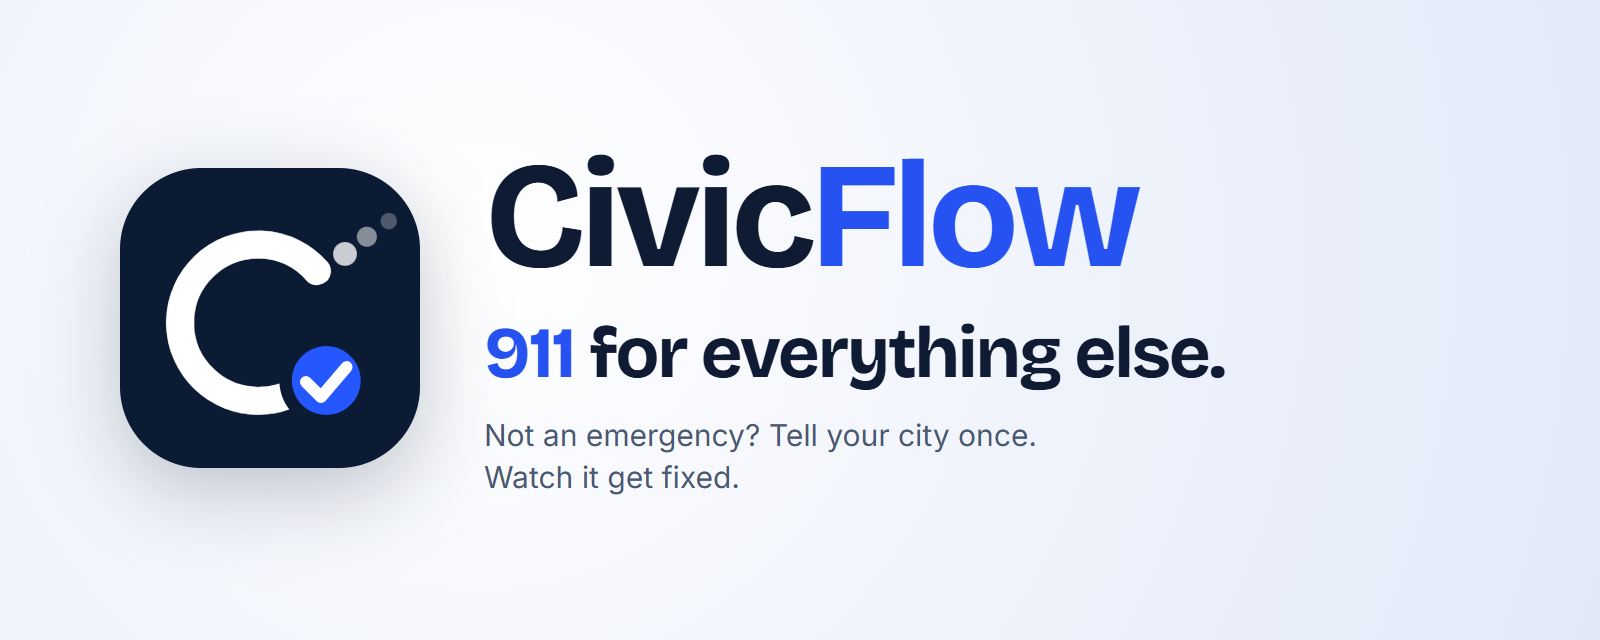
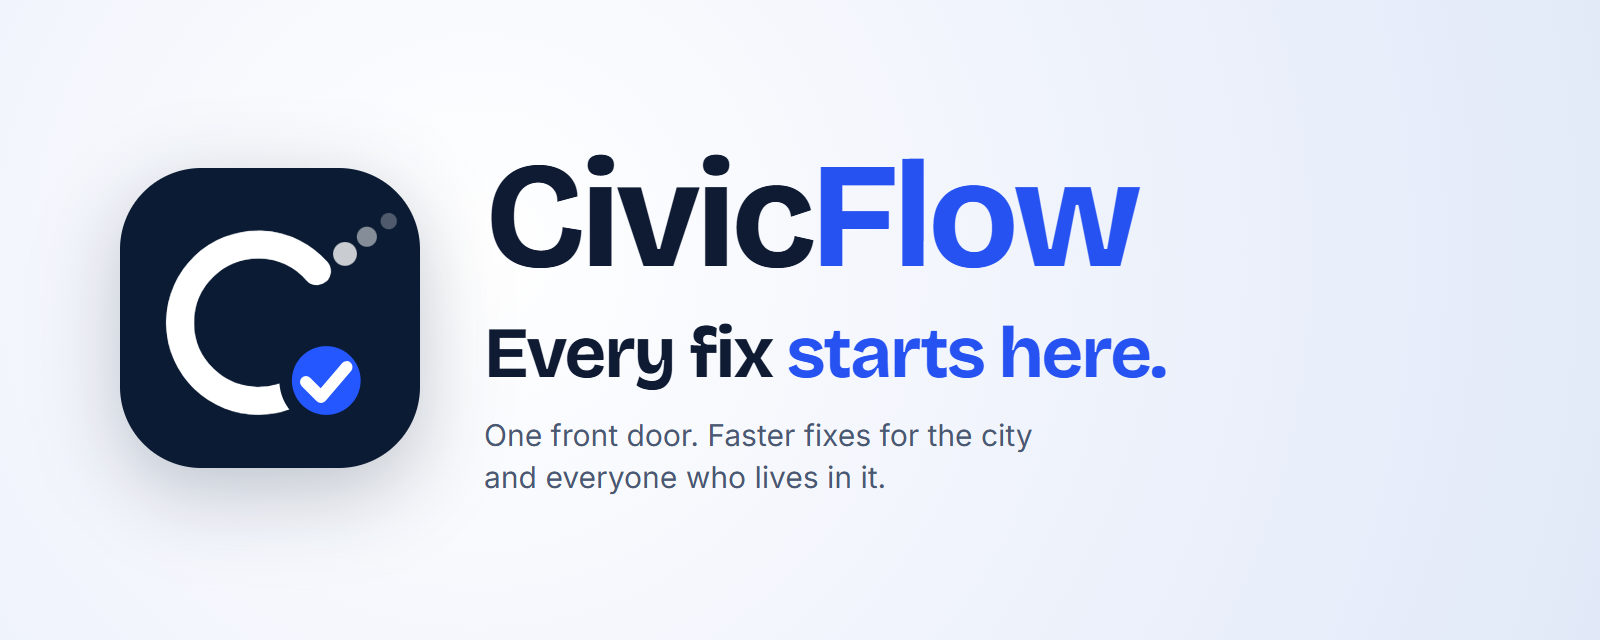
Opener and tagline: Every fix starts here; remove 911 and police from the visuals and script

Changed region(s): [[0.2812, 0.5, 0.7812, 0.625], [0.2812, 0.6562, 0.6562, 0.7812]]

diff --git a/frontend/src/intro/Intro.tsx b/frontend/src/intro/Intro.tsx
@@ -1,15 +1,15 @@
 import { useEffect } from "react";
 import { motion, useReducedMotion } from "framer-motion";
-import { Mail, Phone, Share2, Shield, Siren } from "lucide-react";
+import { Building2, Mail, Phone, Share2, Users } from "lucide-react";
 import "./intro.css";
 
 const CHANNELS = [
-  { label: "911", icon: Siren }, { label: "Police", icon: Shield }, { label: "Phone", icon: Phone },
-  { label: "Email", icon: Mail }, { label: "Social media", icon: Share2 },
+  { label: "Phone call", icon: Phone }, { label: "Email", icon: Mail }, { label: "Front desk", icon: Building2 },
+  { label: "Council member", icon: Users }, { label: "Social media", icon: Share2 },
 ];
 const STEP = 118; // px between chip centers: the chips slide this far (times their distance from the middle) into the logo
 
-/** The demo opener: a short overlay on the live app. Five ways in converge into the mark, then "911 for everything else."
+/** The demo opener: a short overlay on the live app. Five ways a problem reaches a city converge into the mark, then "Every fix starts here."
  *  Space, Enter, Escape or a click dismisses it. Under prefers-reduced-motion the finished frame is shown at once. */
 export default function Intro({ onDone }: { onDone: () => void }) {
   const reduced = !!useReducedMotion();
@@ -27,7 +27,7 @@ export default function Intro({ onDone }: { onDone: () => void }) {
   const rise = (delay: number) => ({ initial: reduced ? false : ({ opacity: 0, y: 12 } as const), animate: { opacity: 1, y: 0 }, transition: t(delay) });
 
   return (
-    <div className="intro-scrim" role="dialog" aria-modal="true" aria-label="Civic Flow: 911 for everything else" onClick={onDone}>
+    <div className="intro-scrim" role="dialog" aria-modal="true" aria-label="Civic Flow: every fix starts here" onClick={onDone}>
       <div className="intro-card" onClick={(e) => e.stopPropagation()}>
         <div className="intro-stage" aria-hidden="true">
           <div className="intro-chips">
@@ -53,10 +53,10 @@ export default function Intro({ onDone }: { onDone: () => void }) {
 
         <motion.div className="intro-word" {...rise(1.45)}>Civic<span>Flow</span></motion.div>
         <h2 className="intro-tag">
-          <motion.span className="is-911" {...rise(1.7)}>911</motion.span>
-          <motion.span {...rise(2.0)}>for everything else.</motion.span>
+          <motion.span {...rise(1.7)}>Every fix</motion.span>
+          <motion.span className="is-here" {...rise(2.0)}>starts here.</motion.span>
         </h2>
-        <motion.p className="intro-sub" {...rise(2.45)}>Not an emergency? Tell your city once. Watch it get fixed.</motion.p>
+        <motion.p className="intro-sub" {...rise(2.45)}>One front door. Faster fixes for the city and everyone who lives in it.</motion.p>
         <motion.p className="intro-hint" {...rise(2.9)}>Press Space to begin</motion.p>
       </div>
     </div>

diff --git a/frontend/src/intro/intro.css b/frontend/src/intro/intro.css
@@ -23,7 +23,7 @@
   margin: 12px 0 0; display: flex; flex-wrap: wrap; justify-content: center; gap: 0 .32em;
   font: 700 clamp(34px, 7vh, 62px)/1.08 var(--font-display, "Bricolage Grotesque Variable", sans-serif); letter-spacing: -.035em;
 }
-.intro-tag .is-911 { color: #2552f0; }
+.intro-tag .is-here { color: #2552f0; }
 .intro-sub { margin: 14px 0 0; max-width: 46ch; font-size: clamp(14px, 2.2vh, 18px); line-height: 1.45; color: #4b5873; }
 .intro-hint { margin: 22px 0 0; font-size: 12px; letter-spacing: .08em; text-transform: uppercase; color: #8793ad; }
 

diff --git a/docs/DEMO.md b/docs/DEMO.md
@@ -1,8 +1,8 @@
 # Civic Flow: the pitch (3 minutes, no slides)
 
 ## The idea to land
-**911 for everything else.**
-Problems reach a local government (city, town, county) through five disconnected channels: 911, the police desk, the front desk phone, a council member's email, social media. Each one is retyped, passed on and lost, so the crew finds out days later and the resident never hears back. Civic Flow is the **front door and the whole workflow behind it**: it understands the report, works out whose job and how urgent it is, merges the duplicates, opens one ticket, routes the crew, verifies the fix, tells the resident, and shows leadership what it all costs and saves.
+**Every fix starts here.**
+Problems reach a local government (city, town, county) through disconnected channels: phone calls, the front desk, a council member's email, social media. Each one is retyped, passed on and lost, so the crew finds out days later and the resident never hears back. Civic Flow is the **front door and the whole workflow behind it**: it understands the report, works out whose job and how urgent it is, merges the duplicates, opens one ticket, routes the crew, verifies the fix, tells the resident, and shows leadership what it all costs and saves.
 
 Merging duplicates is **one** step of that loop, not the product. Say so: it is the part that shows at scale.
 
@@ -17,12 +17,12 @@ Two windows on one laptop (see "One device" below): **left** = the resident, **r
 **YOU** = what you say. **[DO]** = what happens on screen or in your hands (say nothing). Short lines on purpose: breathe between them.
 
 ### 0:00 The opener [live Operations screen; press Alt+I so the opener plays over it; phone in your hand]
-1. [DO: Alt+I. The five ways in (911, police, phone, email, social media) fly into the logo and "911 for everything else." appears. Start speaking as it settles; do not wait in silence]
-2. **YOU:** "A tree comes down. Who do you call?"
-3. **YOU:** "Most people call 911. Or the police. Or the front desk. Or they email a council member, or post it on social media."
-4. **YOU:** "Every one of those lines was built for something else."
+1. [DO: Alt+I. The ways problems reach a city (phone call, email, social media, front desk, council member) fly into the logo and "Every fix starts here." appears. Start speaking as it settles; do not wait in silence]
+2. **YOU:** "Every fix starts the same way. Somebody notices."
+3. **YOU:** "Then it goes... somewhere. A phone call. An email to a council member. A post on social media. A word at the front desk."
+4. **YOU:** "And by the time it reaches a crew, days are gone."
 5. [DO: pause for one full second; press **Space**; the overlay clears and the Operations map is live behind it]
-6. **YOU:** "That's the gap. Civic Flow is **911 for everything else**: the non-emergencies. A resident sends a photo... and the fix starts in seconds."
+6. **YOU:** "Civic Flow is where every fix starts. One front door. A resident sends a photo... and the fix is on its way in seconds."
 
 ### 0:25 Scale: a storm [laptop: Operations]
 7. [DO: click **Flooding** under "Run the story"; say nothing for two seconds while the map fills]
@@ -63,18 +63,18 @@ Two windows on one laptop (see "One device" below): **left** = the resident, **r
 36. [DO: stop moving; look at the room]
 37. **YOU:** "Kansas City is where we built it. But every town, county and city has trees to remove, traffic to manage and roads to fix."
 38. **YOU:** "Running right now on Akamai Cloud, reading photos with AWS, living in DevRev."
-39. **YOU:** "Civic Flow. 911 for everything else. Thank you."
+39. **YOU:** "Civic Flow. Every fix starts here. Thank you."
 
 ### Timing check
 Opener 0:00 to 0:25, storm to 0:55, resident to 1:35, loop to 2:30, close to 3:00. If you are behind at the loop, skip lines 20 to 23 (the DevRev and Vendors tab flashes) and keep the rest. If you are ahead, open **How it's built** after line 39 and say: "That's what is running underneath, live."
 
 ## The logo and the opening line
 - **Logo:** a "C" that is a loop. Reports stream in from the top (the dots) and a blue check closes the loop. Files are in `docs/brand/` (`logo-mark.svg`, `logo-mark-1024.png`, `logo-horizontal.png`, `banner.png` for the submission page).
-- **Opening line (use this):** **"911 for everything else."** The insight: when a tree falls or a signal goes dark, people call 911, the police or the front desk, or email a council member, or post on social media. Every one of those lines was built for something else, and there is no good front door for what is *not* an emergency. Civic Flow is that front door, with the workflow behind it. Under it: "Not an emergency? Tell your city once. Watch it get fixed."
-- **Say "non-emergency" out loud** at least once, so nobody thinks Civic Flow dispatches emergencies. It takes the non-emergencies off the emergency lines.
-- **Be exact about what it is:** Civic Flow is the one front door residents use, with the workflow behind it. It does not pull in 911 or phone feeds today. Say "one front door **instead of** five", never "we collect all five".
-- **The opener:** a short overlay on the **live Operations screen** (the map shows through, blurred), not a slide. About two seconds of animation: the five channels fly into the logo, then the line appears. Sign in with the PIN, then press **Alt+I** from any page; **Space**, Enter, Escape or a click dismisses it. Also reachable at `https://city.172-232-2-16.sslip.io/ops?intro=1`.
-- **Alternates if you want to swap the line:** "The city that answers back." / "Fixes, not forms." / "Keep the city flowing."
+- **Opening line (use this):** **"Every fix starts here."** The focus is speed and the front door: a fix can only start once the right crew knows, and today that news travels through phone calls, emails, social media and the front desk. Civic Flow is the single place where it starts, so it starts sooner. Under it: "One front door. Faster fixes for the city and everyone who lives in it."
+- **Keep the focus on the fix, not on any one channel.** Do not lead with 911 or the police: it pulls the room toward emergencies. Civic Flow handles non-emergency public-works issues; emergencies still belong to 911 (see the question table).
+- **Be exact about what it is:** Civic Flow is the one front door residents use, with the workflow behind it. It does not pull in phone or other feeds today. Say "one front door **instead of** many", never "we collect them all".
+- **The opener:** a short overlay on the **live Operations screen** (the map shows through, blurred), not a slide. About two seconds of animation: five ways a problem reaches a city fly into the logo, then the line appears. Sign in with the PIN, then press **Alt+I** from any page; **Space**, Enter, Escape or a click dismisses it. Also reachable at `https://city.172-232-2-16.sslip.io/ops?intro=1`.
+- **Alternates if you want to swap the line:** "Fixed before the second call." / "The city that answers back." / "Fixes, not forms."
 
 ## One device: how to run and record it (you only need the laptop)
 The resident app is a web page, so it runs in a phone-shaped window next to the city portal on the same screen. Everyone in the room sees both, and one recording captures the whole demo.
@@ -85,7 +85,7 @@ The resident app is a web page, so it runs in a phone-shaped window next to the 
 
 ## Delivery notes (these matter as much as the words)
 - **Silence is a tool.** Let the collapse and the "Identified" reveal land before you talk. The product is doing the selling.
-- **One sentence to repeat:** "911 for everything else." It is on the opener, so say it again right after "Fixed!" and as your last line.
+- **One sentence to repeat:** "Every fix starts here." It is on the opener, so say it again right after "Fixed!" and as your last line.
 - **Never apologize or say "prototype", "just", or "basically".** Say "simulated" once, plainly, for the storm.
 - **Name the technology as what it *did*,** not as a logo: embeddings *matched meaning*, vision *read the photo*, agents *ranked and routed*, DevRev *holds the case*.
 - **Practice the first 20 seconds and the last 15 until you can do them without looking.** The middle is driven by the screen.
@@ -124,6 +124,7 @@ Live: resident `https://172-232-2-16.sslip.io/`, city `https://city.172-232-2-16
 | Is the DevRev ticket real? | Yes. Change its stage in DevRev and the board follows within seconds. |
 | What do residents see? | Only their own reports, and how many neighbors reported the same issue after they submit. |
 | What does it cost to run? | One small Akamai Cloud server; AI calls are per new report, and merged duplicates add no extra model calls. |
+| Is this for emergencies? | No. It is for non-emergency public-works issues (trees, signals, streetlights, potholes, drains, sidewalks). Emergencies still go to 911. |
 | Is it only for potholes? Only for cities? | No. It covers ten kinds of public-works issues (flooding, trees, signals, streetlights, sidewalks, dumping, graffiti, potholes and more) for any local government that controls them: a city, a town or a county. Kansas City is the first deployment. |
 | Could another municipality use it? | Yes. It needs that municipality's boundary, districts or wards, and crew list, which is a data step rather than new software. Today it is configured for Kansas City. |
 
